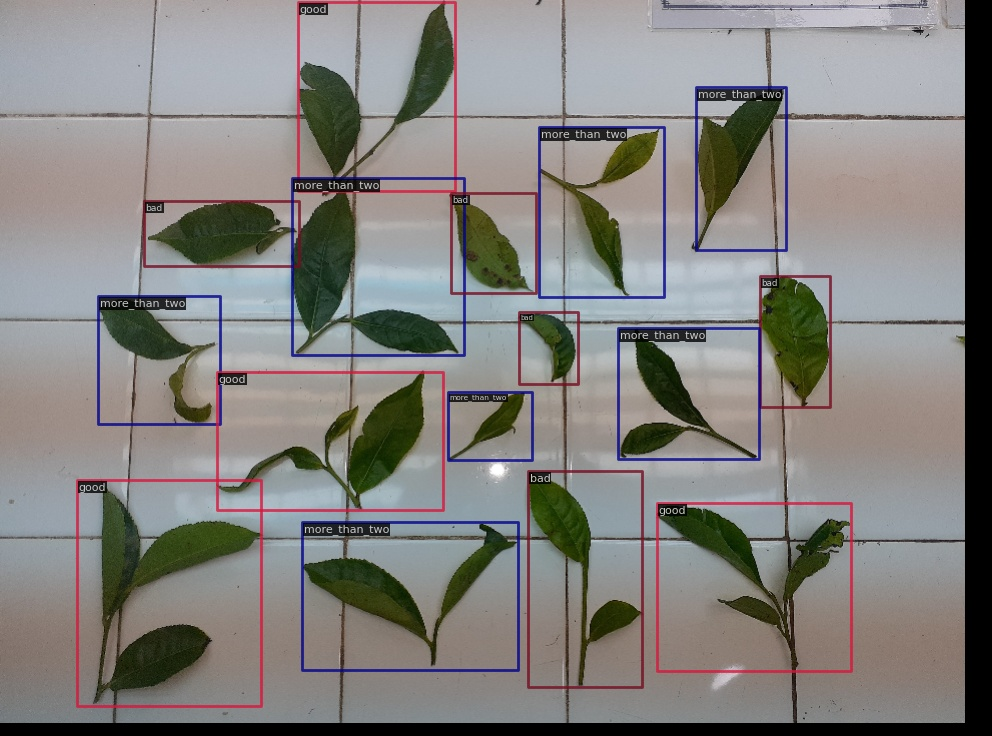
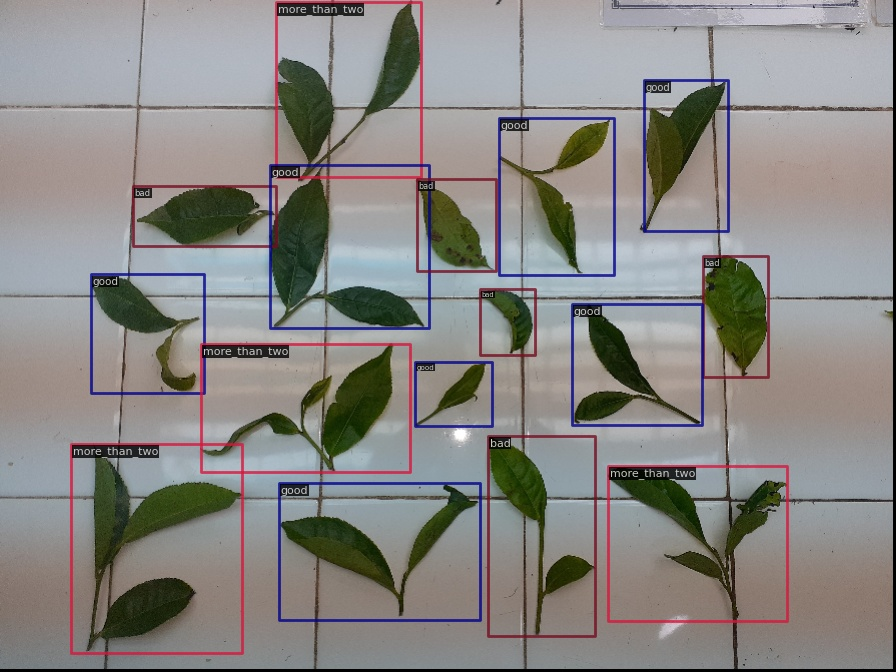
update: jeevan data and sparse data training

Changed region(s): [[0.0, 0.0, 1.0, 1.0], [0.6562, 0.0, 0.7188, 0.0312], [0.1562, 0.0, 0.1875, 0.0312]]

diff --git a/configs_dev/faster_rcnn_r50_v2_jeevan_data.py b/configs_dev/faster_rcnn_r50_v2_jeevan_data.py
@@ -35,7 +35,15 @@ data = dict(
         ann_file=f'{data_root}test.json',
         img_prefix=data_root,
         ))
-
+train_dataset = dict(
+    # use MultiImageMixDataset wrapper to support mosaic and mixup
+    type='MultiImageMixDataset',
+    dataset=dict(
+        type='CocoDataset',
+        pipeline=[
+            dict(type='LoadImageFromFile'),
+            dict(type='LoadAnnotations', with_bbox=True)
+        ]))
 
 
 optimizer = dict(type='SGD', lr=0.02, momentum=0.9, weight_decay=0.0001)
@@ -51,7 +59,7 @@ lr_config = dict(
 runner = dict(type='EpochBasedRunner', max_epochs=100)
 
 
-evaluation = dict(interval=8, metric='bbox')
+evaluation = dict(interval=8, metric='bbox',save_best='bbox_mAP')
 
 
 

diff --git a/configs_dev/faster_rcnn_r50_v2.py b/configs_dev/faster_rcnn_r50_v2.py
@@ -4,7 +4,7 @@ _base_ = './faster_rcnn_r50_caffe_fpn_mstrain_3x_coco.py'
 log_config = dict(interval=13, hooks=[dict(type='TextLoggerHook')])
 
 model = dict(roi_head=dict(bbox_head=dict(num_classes=3)))
-classes = ('good', 'bad', 'more_than_two')
+classes = ('more_than_two', 'bad', 'good')
 
 workflow = [('train', 1), ('val', 1)]
 
